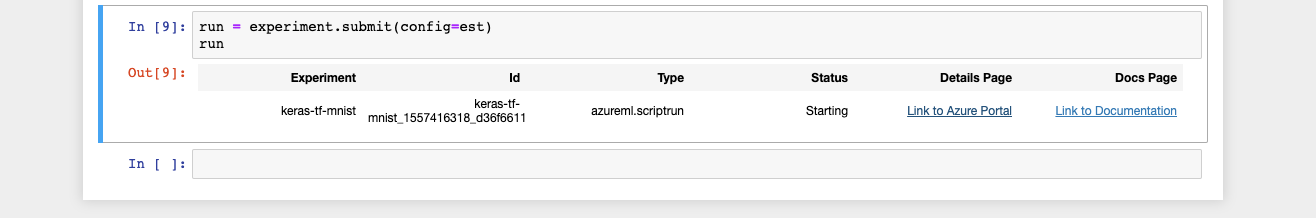
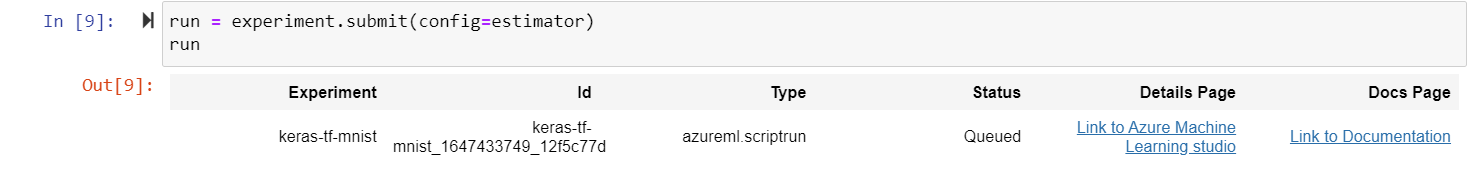
Change screenshot and link to ML studio

diff --git a/day1/AzureMachineLearningService/challenges/challenge_02.md b/day1/AzureMachineLearningService/challenges/challenge_02.md
@@ -346,7 +346,7 @@ run = experiment.submit(config=estimator)
 run
 ```
 
-The `Link to Azure Portal` will bring us directly into our workspace:
+The `Link to Azure Machine Learning studio` will bring us directly into our workspace:
 
 ![alt text](../images/02-run_link.png "Our training run is starting")
 
